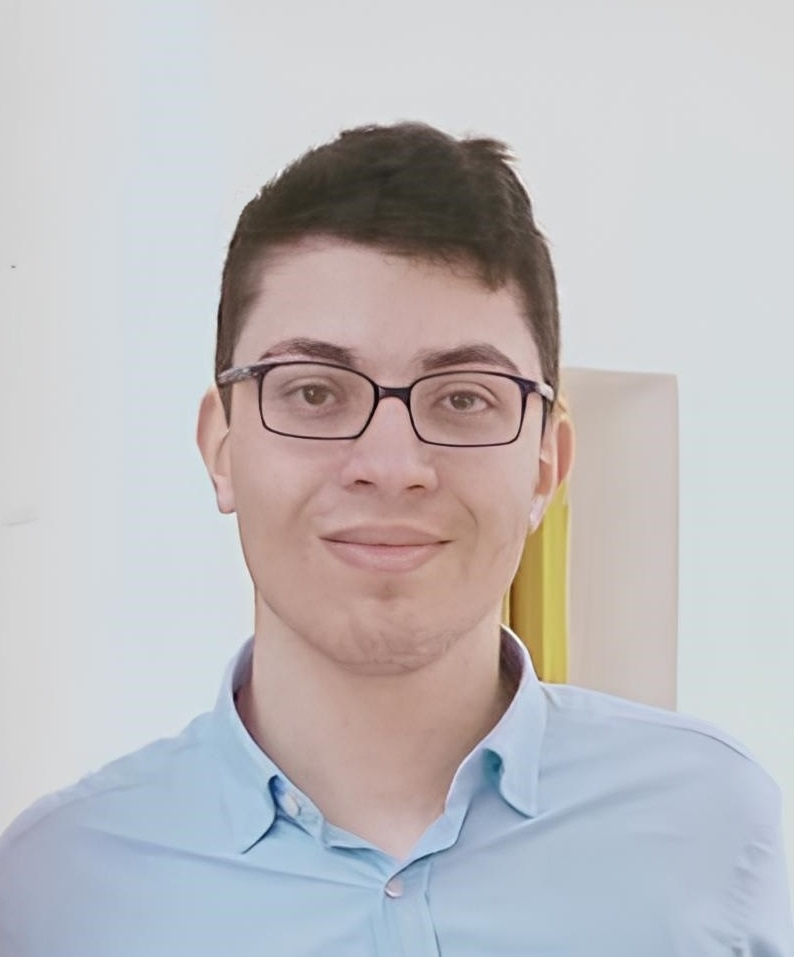
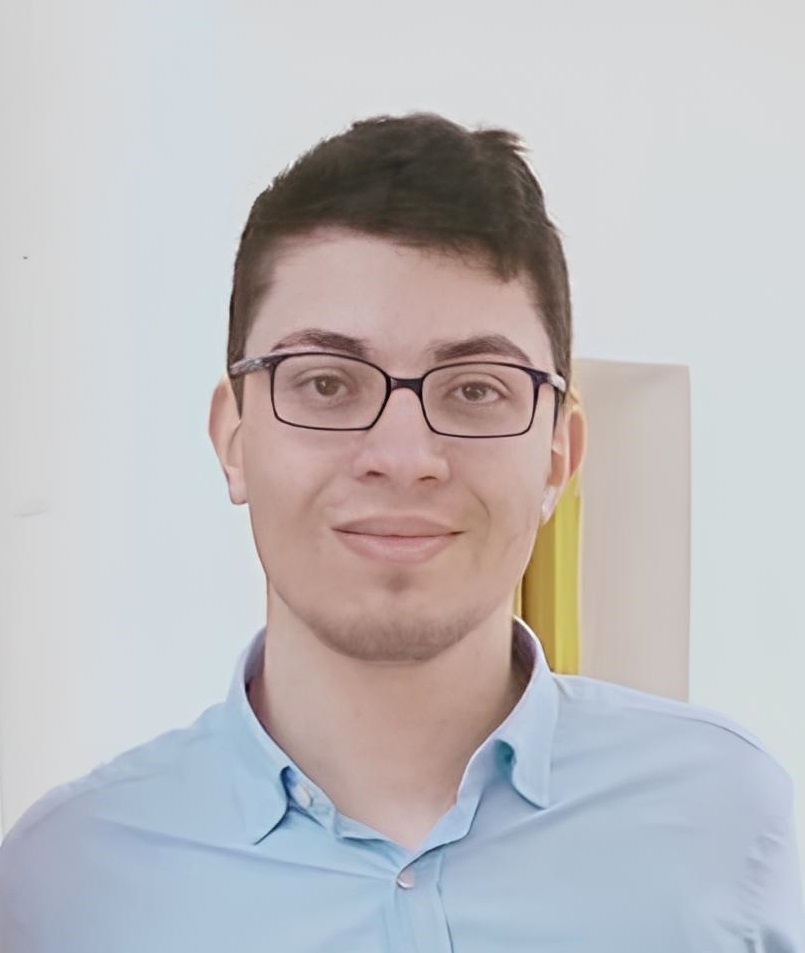
feat: multiple images in about

diff --git a/src/components/Sections/About.tsx b/src/components/Sections/About.tsx
@@ -6,17 +6,24 @@ import {aboutData, SectionId} from '../../data/data';
 import Section from '../Layout/Section';
 
 const About: FC = memo(() => {
-  const {profileImageSrc, description, aboutItems} = aboutData;
+  const {profileImageSrc, profileImageSrc2, description, aboutItems} = aboutData;
   return (
     <Section className="bg-neutral-800" sectionId={SectionId.About}>
       <div className={classNames('grid grid-cols-1 gap-y-4', {'md:grid-cols-4': !!profileImageSrc})}>
         {!!profileImageSrc && (
-          <div className="col-span-1 flex justify-center md:justify-start">
+          <div className="col-span-1 mr-8 flex flex-col items-center justify-center">
             <div className="relative h-24 w-24 overflow-hidden rounded-xl md:h-32 md:w-32">
               <Image alt="about-me-image" layout="fill" objectFit="cover" src={profileImageSrc} />
             </div>
+
+            {!!profileImageSrc2 && (
+              <div className="relative mt-4 h-48 w-32 overflow-hidden rounded-xl md:h-56 md:w-40">
+                <Image alt="about-me-image-2" layout="fill" objectFit="cover" src={profileImageSrc2} />
+              </div>
+            )}
           </div>
         )}
+
         <div className={classNames('col-span-1 flex flex-col gap-y-6', {'md:col-span-3': !!profileImageSrc})}>
           <div className="flex flex-col gap-y-2">
             <h2 className="text-2xl font-bold text-white">About me</h2>
@@ -33,11 +40,7 @@ const About: FC = memo(() => {
                             className=" inline-block rounded-md p-0 align-middle"
                             key={wordIndex}
                             src="/assets/discord-logo.jpg"
-                            style={{
-                              margin: 0,
-                              marginRight: '5px',
-                              padding: 0,
-                            }}
+                            style={{margin: 0, marginRight: '5px', padding: 0}}
                             width={20}
                           />
                         </span>
@@ -51,10 +54,7 @@ const About: FC = memo(() => {
                             className=" my-0 inline-block rounded-md py-0 align-middle"
                             key={wordIndex}
                             src="/assets/JavaScript-logo.png"
-                            style={{
-                              margin: 0,
-                              padding: 0,
-                            }}
+                            style={{margin: 0, padding: 0}}
                             width={20}
                           />
                         </span>
@@ -68,10 +68,10 @@ const About: FC = memo(() => {
           </div>
           <ul className="grid grid-cols-1 gap-4 sm:grid-cols-2">
             {aboutItems.map(({label, text, Icon}, idx) => (
-              <li className="col-span-1 flex  items-start gap-x-2" key={idx}>
+              <li className="col-span-1 flex items-start gap-x-2" key={idx}>
                 {Icon && <Icon className="h-5 w-5 text-white" />}
                 <span className="text-sm font-bold text-white">{label}:</span>
-                <span className=" text-sm text-gray-300">{text}</span>
+                <span className="text-sm text-gray-300">{text}</span>
               </li>
             ))}
           </ul>

diff --git a/src/data/data.tsx b/src/data/data.tsx
@@ -14,6 +14,7 @@ import LinkedInIcon from '../components/Icon/LinkedInIcon';
 import heroImage from '../images/header-background.webp';
 import profilepic from '../images/profilepic.jpg';
 import testimonialImage from '../images/testimonial.webp';
+import profilepic2 from '../images/wecraft.png';
 import cars from './../../public/assets/cars.jpg';
 import FTL from './../../public/assets/FTL.png';
 import {
@@ -104,6 +105,7 @@ export const heroData: Hero = {
  */
 export const aboutData: About = {
   profileImageSrc: profilepic,
+  profileImageSrc2: profilepic2,
   description: `I started programming when I was 14. I didn't take it too seriously and was just playing around with Discord bot programming with JavaScript. 
   It was a rogue start, though I managed to continue doing so! I started to take it more seriously from there on and learned many languages and concepts throught high school and university.
    It was a fun journey. I've discovered a lot of knowledge which I probably would never get to learn if I didn't have the motivation to do so.`,

diff --git a/src/data/dataDef.ts b/src/data/dataDef.ts
@@ -39,6 +39,7 @@ interface HeroActionItem {
  */
 export interface About {
   profileImageSrc?: string;
+  profileImageSrc2?: string;
   description: string;
   aboutItems: AboutItem[];
 }
